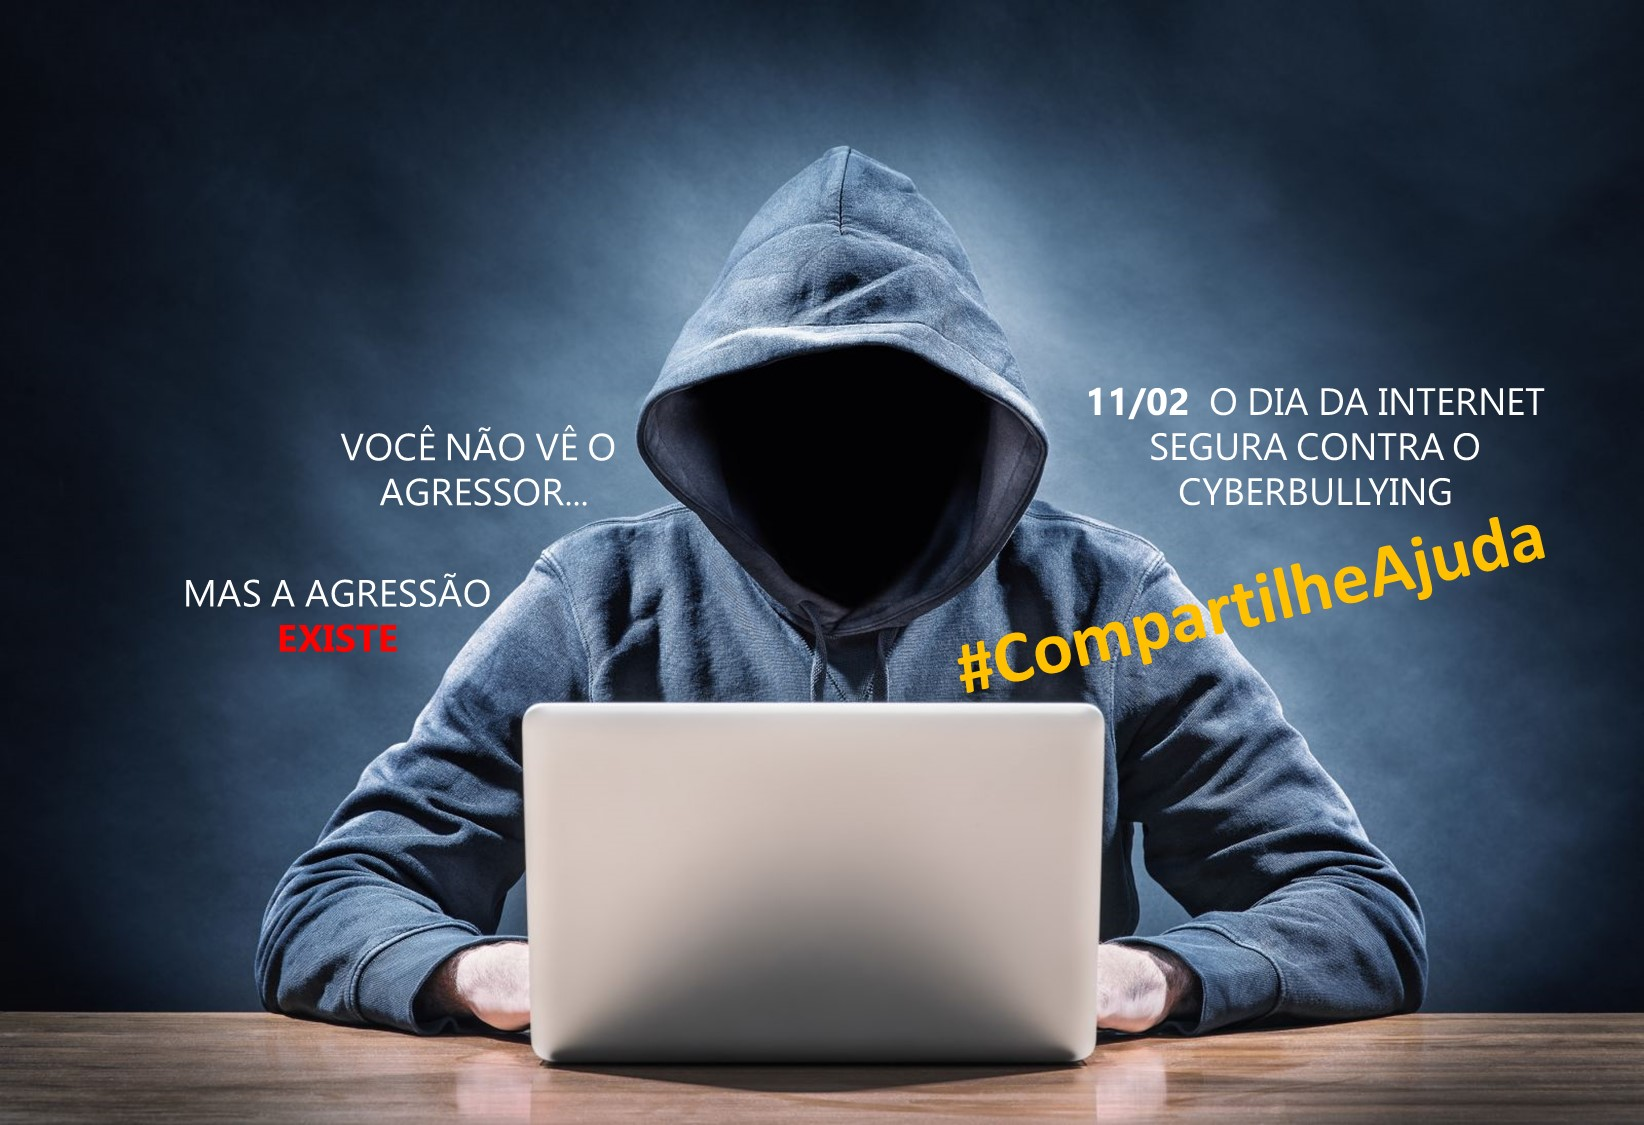
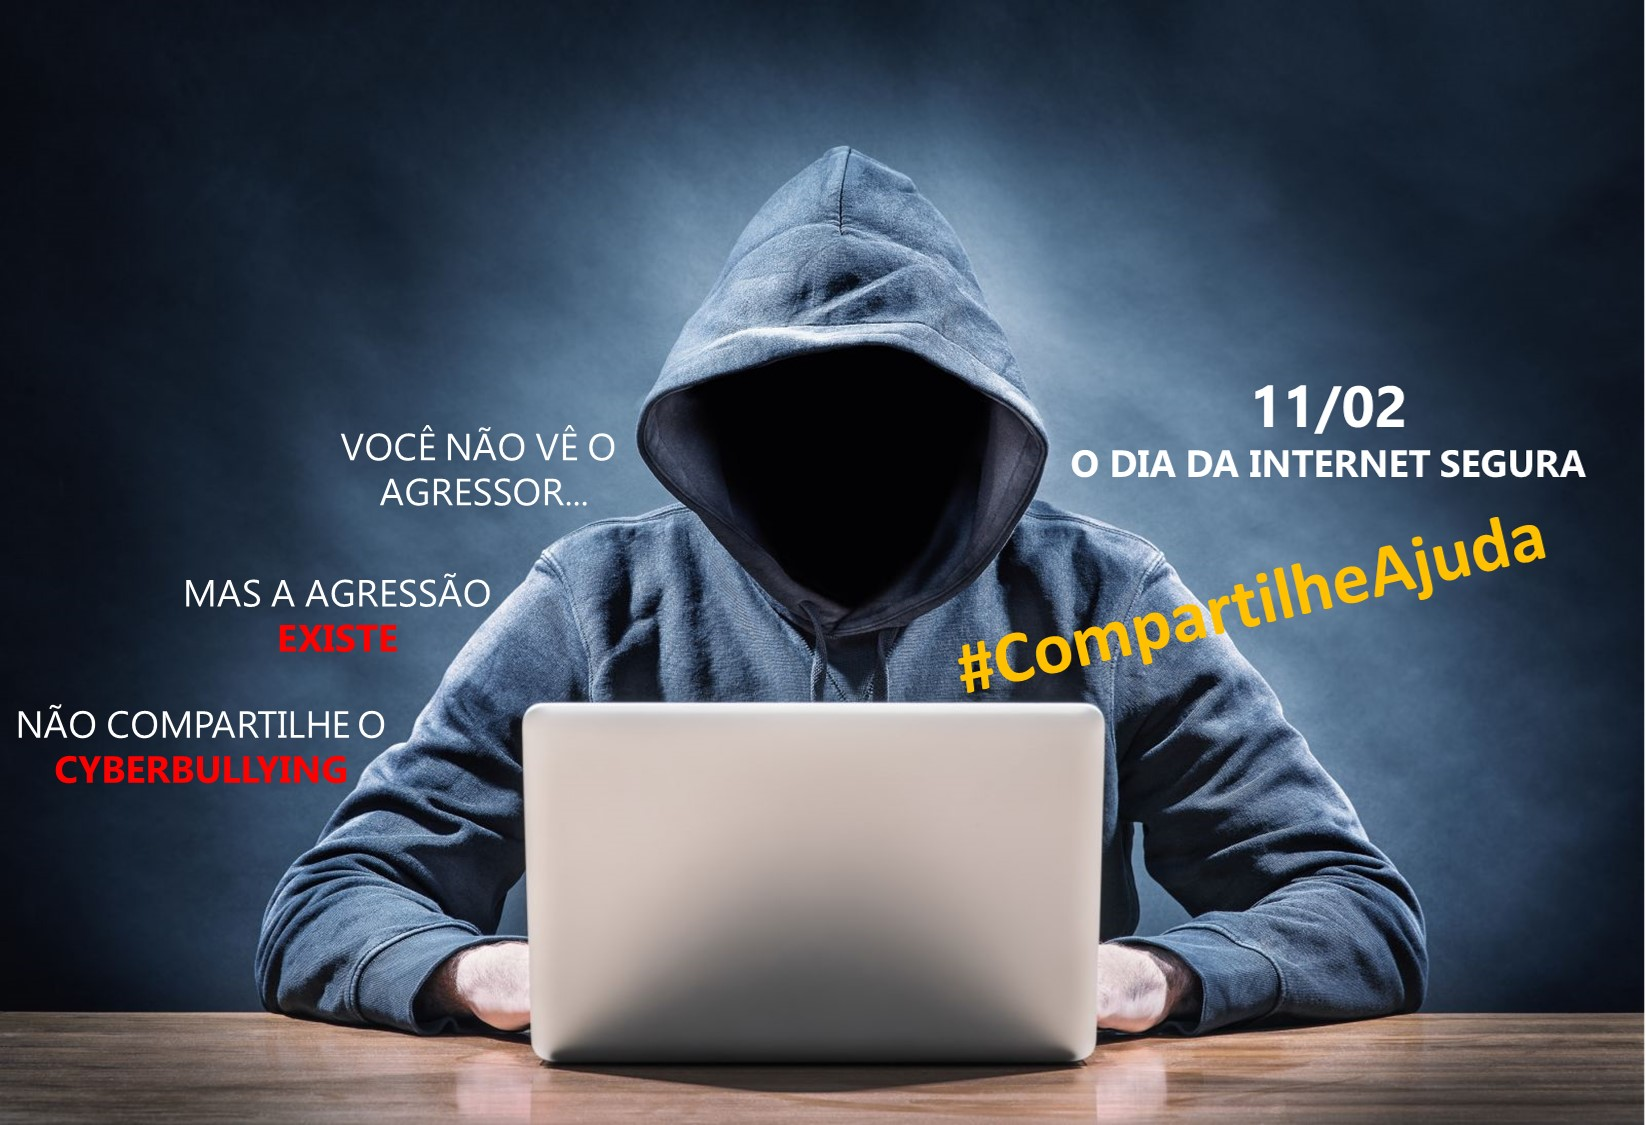
Adicionando imagens revisadas e footer revisado

diff --git a/index.html b/index.html
@@ -60,7 +60,7 @@
       </header>
       
       <!--CARROUSEL BOOTSTRAP-->
-      <div>
+      <div id="carousel_principal">
         <div id="carouselExampleIndicators" class="carousel slide" data-ride="carousel">
           <ol class="carousel-indicators">
             <li data-target="#carouselExampleIndicators" data-slide-to="0" class="active"></li>
@@ -455,7 +455,7 @@
                   Sob qualquer caso de bullying e cyberbullying, os profissionais do SENAI estão preparados e abertos para conversar, entender a situação e acompanhar os alunos para o melhor canal de comunicação e denúncia. A equipe inclui professores, coordenação pedagógica e assistência social para lidar com os casos.
                 </div>
                 <div class="denuncia_imagem">
-                  <img src="img/senai_logo_completo.png" alt="Logo do SENAI" title="Logo da SENAI"/>
+                  <img id="logo_senai" src="img/senai_logo_completo.png" alt="Logo do SENAI" title="Logo da SENAI"/>
                 </div>
               </div>
               
@@ -489,6 +489,11 @@
             </div>
           </section>
           
+          <div class="text-center" id="consideracoes">
+            <p>Este website foi desenvolvido por alunos da instituição de ensino profissionalizante SENAI Prof Vicente Amato, de Jandira, São Paulo, para fins de conscientização, não representando um portal oficial do SENAI.</p>
+            <p>Todas as imagens e textos contidos foram utilizados para fins didáticos, não representando propriedade dos mesmos.</p>
+          </div>
+          
         </div>
       </div>
 
@@ -498,7 +503,7 @@
           <div class="conteudo_footer">
             <img src="img/logo_ajuda.png" alt="Logo da campanha #CompartilheAjuda" title="Logo da campanha #CompartilheAjuda"/>
           </div>
-          <div class="conteudo_footer text-center">
+          <div class="conteudo_footer text-center" id="dados_criacao">
             <p>SENAI Prof. Vicente Amato | Jandira - SP</p>
             <p>Professor Responsável: Fernando Leonid</p>
             <p>Turma participante: Técnico de Redes - 3° Termo - Manhã | 2020</p>

diff --git a/css/style.css b/css/style.css
@@ -352,16 +352,17 @@ nav{
 }
 
 .contato_titulo{
-  color: #049DD9;
+  color: red;
   font-weight: bold;
-}
-
-.contato_senai{
-  width: auto;
 }
 
 .contato_senai p{
   line-height: 1 !important;
+}
+
+#logo_senai{
+  height: 200px; !important
+  width: auto;
 }
 
 /*BANNER - FINALIZAÇÃO*/
@@ -384,6 +385,13 @@ footer{
   width: 100%;
 }
 
+.conteudo_footer{
+  height: 150px;
+  width: 27%;
+  display: flex;
+  align-items: center;
+}
+
 .conteudo_footer img{
   width: auto;
   height: 100px;
@@ -391,6 +399,17 @@ footer{
 
 #footer_conteudos{
   display: flex;
-  justify-content: space-around;
+  flex-direction: row;
+  justify-content: space-between;
   align-items: center;
+  align-content: center;
+}
+
+#dados_criacao{
+  flex-direction: column;
+}
+
+#consideracoes{
+  margin-top: 20px;
+  font-size: 14px; !important
 }
